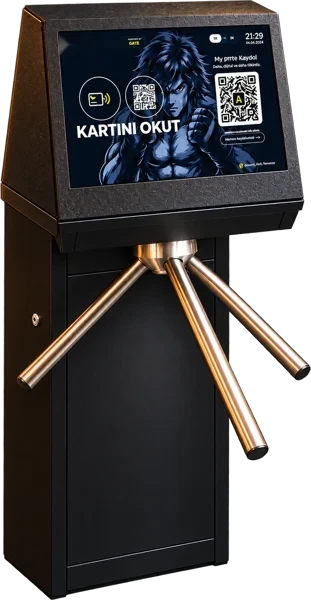
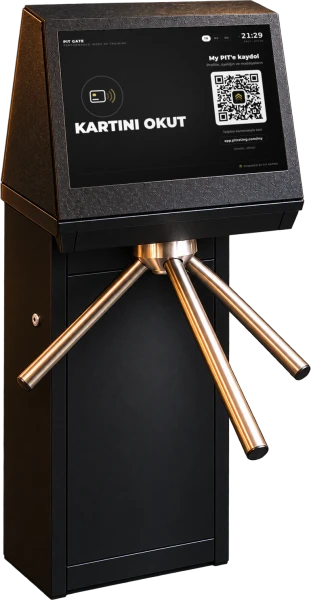
Убраны упоминания зала и его фирменная графика; экран турникета заменён на экран PIT GATE
Claude-Session: https://claude.ai/code/session_01UJAGAc1MHR5NDPDECNkstM

Changed region(s): [[0.1736, 0.03, 0.8971, 0.33], [0.6945, 0.27, 0.7235, 0.3]]

diff --git a/pit-gate/index.html b/pit-gate/index.html
@@ -110,7 +110,7 @@ main{position:relative;z-index:10;text-shadow:0 1px 12px rgba(0,0,0,.7)}
 .blk{min-width:0;display:flex;flex-direction:column;gap:8px;padding-top:14px;border-top:1px solid rgba(201,151,63,.45)}
 .blk h3{margin:0;font:400 14px/1.2 var(--caps);letter-spacing:.3em;text-transform:uppercase;color:var(--amber)}
 .blk p{margin:0}
-.shot{display:block;width:100%;max-width:100%;height:240px;object-fit:cover;object-position:50% 58%;filter:brightness(1.12) contrast(1.03);
+.shot{display:block;width:100%;max-width:100%;height:240px;object-fit:cover;object-position:50% 50%;filter:brightness(1.12) contrast(1.03);
   clip-path:polygon(2% 6%,14% 0,31% 5%,47% 1%,63% 6%,80% 0,98% 4%,100% 28%,96% 52%,100% 77%,97% 97%,79% 100%,61% 95%,42% 100%,24% 95%,7% 100%,0 78%,4% 55%,0 30%)}
 .steps{margin:0;padding:0;list-style:none;display:flex;flex-direction:column;gap:6px;counter-reset:s}
 .steps li{display:grid;grid-template-columns:28px 1fr;gap:8px}
@@ -188,13 +188,13 @@ main{position:relative;z-index:10;text-shadow:0 1px 12px rgba(0,0,0,.7)}
       <div class="credit rv">Adam Hikman Engineering<b>представляет</b></div>
       <h1 class="title rv"><span>PIT</span><span>GATE</span></h1>
       <p class="tag rv">Турникет для зала единоборств, которым управляет CRM</p>
-      <div class="live rv"><i></i>Уже работает в зале единоборств</div>
+      <div class="live rv"><i></i>Обкатан в реальном зале</div>
     </div>
     <div class="hint"><svg viewBox="0 0 24 24" fill="none" stroke-width="2.5" stroke-linecap="round" stroke-linejoin="round" aria-hidden="true"><path d="M6 9l6 6 6-6"/></svg>листай</div>
   </section>
 
   <section class="scr" id="s2" aria-label="Турникет у входа">
-    <div id="wall" class="rv"><img src="/pit-gate/tur_cut3.webp?v=7" alt="Турникет PIT GATE в тёмном зале: экран «Kartını okut» и плата Raspberry Pi"></div>
+    <div id="wall" class="rv"><img src="/pit-gate/tur_cut3.webp?v=7" alt="Турникет PIT GATE с экраном «Kartını okut»"></div>
     <div class="cap2 rv">
       <div class="credit">Вход по карте или QR · выход свободный</div>
       <h2>Приложил карту или QR — прошёл</h2>
@@ -239,7 +239,7 @@ main{position:relative;z-index:10;text-shadow:0 1px 12px rgba(0,0,0,.7)}
         </div>
       </div>
       <div class="where rv">
-        <div class="credit">Работает с 26 октября 2026<b>Действующий зал единоборств</b></div>
+        <div class="credit">Запущен в октябре 2026<b>Турникет · CRM · My PIT</b></div>
         <a class="cta" href="https://demo.pitrating.com/apply" target="_blank" rel="noopener">Подключить зал →</a>
       </div>
       <div class="sign rv"><svg viewBox="0 0 400 400" aria-hidden="true"><use href="#ah"/></svg>Adam Hikman Engineering · PIT RATING</div>

diff --git a/tr/pit-gate/index.html b/tr/pit-gate/index.html
@@ -110,7 +110,7 @@ main{position:relative;z-index:10;text-shadow:0 1px 12px rgba(0,0,0,.7)}
 .blk{min-width:0;display:flex;flex-direction:column;gap:8px;padding-top:14px;border-top:1px solid rgba(201,151,63,.45)}
 .blk h3{margin:0;font:400 14px/1.2 var(--caps);letter-spacing:.3em;text-transform:uppercase;color:var(--amber)}
 .blk p{margin:0}
-.shot{display:block;width:100%;max-width:100%;height:240px;object-fit:cover;object-position:50% 58%;filter:brightness(1.12) contrast(1.03);
+.shot{display:block;width:100%;max-width:100%;height:240px;object-fit:cover;object-position:50% 50%;filter:brightness(1.12) contrast(1.03);
   clip-path:polygon(2% 6%,14% 0,31% 5%,47% 1%,63% 6%,80% 0,98% 4%,100% 28%,96% 52%,100% 77%,97% 97%,79% 100%,61% 95%,42% 100%,24% 95%,7% 100%,0 78%,4% 55%,0 30%)}
 .steps{margin:0;padding:0;list-style:none;display:flex;flex-direction:column;gap:6px;counter-reset:s}
 .steps li{display:grid;grid-template-columns:28px 1fr;gap:8px}
@@ -188,13 +188,13 @@ main{position:relative;z-index:10;text-shadow:0 1px 12px rgba(0,0,0,.7)}
       <div class="credit rv">Adam Hikman Engineering<b>sunar</b></div>
       <h1 class="title rv"><span>PIT</span><span>GATE</span></h1>
       <p class="tag rv">Dövüş sporu salonları için CRM ile yönetilen turnike</p>
-      <div class="live rv"><i></i>Bir dövüş sporu salonunda çalışıyor</div>
+      <div class="live rv"><i></i>Gerçek bir salonda test edildi</div>
     </div>
     <div class="hint"><svg viewBox="0 0 24 24" fill="none" stroke-width="2.5" stroke-linecap="round" stroke-linejoin="round" aria-hidden="true"><path d="M6 9l6 6 6-6"/></svg>kaydır</div>
   </section>
 
   <section class="scr" id="s2" aria-label="Girişteki turnike">
-    <div id="wall" class="rv"><img src="/pit-gate/tur_cut3.webp?v=7" alt="Karanlık salonda PIT GATE turnikesi: “Kartını okut” ekranı ve Raspberry Pi kartı"></div>
+    <div id="wall" class="rv"><img src="/pit-gate/tur_cut3.webp?v=7" alt="“Kartını okut” ekranlı PIT GATE turnikesi"></div>
     <div class="cap2 rv">
       <div class="credit">Kart veya QR ile giriş · serbest çıkış</div>
       <h2>Kartı veya QR’ı okut, geç</h2>
@@ -239,7 +239,7 @@ main{position:relative;z-index:10;text-shadow:0 1px 12px rgba(0,0,0,.7)}
         </div>
       </div>
       <div class="where rv">
-        <div class="credit">26 Ekim 2026’dan beri hizmette<b>Faal bir dövüş sporu salonu</b></div>
+        <div class="credit">Ekim 2026’da devreye alındı<b>Turnike · CRM · My PIT</b></div>
         <a class="cta" href="https://demo.pitrating.com/apply" target="_blank" rel="noopener">Salonunuzu bağlayın →</a>
       </div>
       <div class="sign rv"><svg viewBox="0 0 400 400" aria-hidden="true"><use href="#ah"/></svg>Adam Hikman Engineering · PIT RATING</div>

diff --git a/en/pit-gate/index.html b/en/pit-gate/index.html
@@ -110,7 +110,7 @@ main{position:relative;z-index:10;text-shadow:0 1px 12px rgba(0,0,0,.7)}
 .blk{min-width:0;display:flex;flex-direction:column;gap:8px;padding-top:14px;border-top:1px solid rgba(201,151,63,.45)}
 .blk h3{margin:0;font:400 14px/1.2 var(--caps);letter-spacing:.3em;text-transform:uppercase;color:var(--amber)}
 .blk p{margin:0}
-.shot{display:block;width:100%;max-width:100%;height:240px;object-fit:cover;object-position:50% 58%;filter:brightness(1.12) contrast(1.03);
+.shot{display:block;width:100%;max-width:100%;height:240px;object-fit:cover;object-position:50% 50%;filter:brightness(1.12) contrast(1.03);
   clip-path:polygon(2% 6%,14% 0,31% 5%,47% 1%,63% 6%,80% 0,98% 4%,100% 28%,96% 52%,100% 77%,97% 97%,79% 100%,61% 95%,42% 100%,24% 95%,7% 100%,0 78%,4% 55%,0 30%)}
 .steps{margin:0;padding:0;list-style:none;display:flex;flex-direction:column;gap:6px;counter-reset:s}
 .steps li{display:grid;grid-template-columns:28px 1fr;gap:8px}
@@ -188,13 +188,13 @@ main{position:relative;z-index:10;text-shadow:0 1px 12px rgba(0,0,0,.7)}
       <div class="credit rv">Adam Hikman Engineering<b>presents</b></div>
       <h1 class="title rv"><span>PIT</span><span>GATE</span></h1>
       <p class="tag rv">A turnstile for combat sports gyms, run by the CRM</p>
-      <div class="live rv"><i></i>Already running in a combat sports gym</div>
+      <div class="live rv"><i></i>Proven in a real gym</div>
     </div>
     <div class="hint"><svg viewBox="0 0 24 24" fill="none" stroke-width="2.5" stroke-linecap="round" stroke-linejoin="round" aria-hidden="true"><path d="M6 9l6 6 6-6"/></svg>scroll</div>
   </section>
 
   <section class="scr" id="s2" aria-label="Turnstile at the entrance">
-    <div id="wall" class="rv"><img src="/pit-gate/tur_cut3.webp?v=7" alt="PIT GATE turnstile in a dark gym: the “Kartını okut” screen and a Raspberry Pi board"></div>
+    <div id="wall" class="rv"><img src="/pit-gate/tur_cut3.webp?v=7" alt="PIT GATE turnstile with the “Kartını okut” screen"></div>
     <div class="cap2 rv">
       <div class="credit">Entry by card or QR · free exit</div>
       <h2>Tap a card or QR — you’re in</h2>
@@ -239,7 +239,7 @@ main{position:relative;z-index:10;text-shadow:0 1px 12px rgba(0,0,0,.7)}
         </div>
       </div>
       <div class="where rv">
-        <div class="credit">In service since 26 October 2026<b>A working combat sports gym</b></div>
+        <div class="credit">Launched in October 2026<b>Turnstile · CRM · My PIT</b></div>
         <a class="cta" href="https://demo.pitrating.com/apply" target="_blank" rel="noopener">Connect your gym →</a>
       </div>
       <div class="sign rv"><svg viewBox="0 0 400 400" aria-hidden="true"><use href="#ah"/></svg>Adam Hikman Engineering · PIT RATING</div>

diff --git a/index.html b/index.html
@@ -343,7 +343,7 @@ footer .eyebrow{display:block;margin-bottom:6px}
             <span class="meta">2026 · автор идеи, продукта и архитектуры</span>
             <h3>PIT RATING</h3>
             <p class="sub">Рейтинг бойцов и CRM для залов единоборств</p>
-            <p>Пульс бойцов в реальном времени, индекс PIT по шкале 0–1000 и CRM зала в одной платформе. Готов интерактивный прототип для телефона, ПК и ТВ; облачная CRM уже работает в действующем зале.</p>
+            <p>Пульс бойцов в реальном времени, индекс PIT по шкале 0–1000 и CRM зала в одной платформе. Готов интерактивный прототип для телефона, ПК и ТВ; облачная CRM обкатана в реальном зале.</p>
             <ul class="tags"><li>PIT Arena</li><li>PIT CRM</li><li>My PIT</li><li>Cloudflare Workers</li><li>Three.js</li></ul>
             <div class="acts"><a class="btn solid" href="https://demo.pitrating.com/apply" target="_blank" rel="noopener">Запросить демо</a><a class="btn" href="https://pitrating.com" target="_blank" rel="noopener">pitrating.com</a></div>
           </div>
@@ -373,7 +373,7 @@ footer .eyebrow{display:block;margin-bottom:6px}
         <article class="card" data-c="cs it">
           <a class="ph gate" href="/pit-gate/" aria-label="Открыть лендинг PIT GATE"><img src="/img/gate.webp" alt="Турникет PIT GATE с экраном приветствия" width="311" height="600"><span class="tag">Computing</span></a>
           <div class="body">
-            <span class="meta">Работает с 26 октября 2026 · зал единоборств</span>
+            <span class="meta">Запущен в октябре 2026</span>
             <h3>PIT GATE</h3>
             <p class="sub">Турникет для зала единоборств, которым управляет CRM</p>
             <p>Вход по карте или QR из My PIT в окне расписания, списание занятия и журнал каждого прохода. На экране у входа имя бойца, рейтинг PIT, остаток абонемента и ближайшая тренировка; без интернета пускает по последнему списку.</p>

diff --git a/en/index.html b/en/index.html
@@ -342,7 +342,7 @@ footer .eyebrow{display:block;margin-bottom:6px}
             <span class="meta">2026 · idea, product and architecture</span>
             <h3>PIT RATING</h3>
             <p class="sub">Fighter rating and CRM for combat sports gyms</p>
-            <p>Fighters’ real-time heart rate, the PIT index on a 0–1000 scale and the gym CRM in one platform. An interactive prototype for phone, computer and TV is ready, and the cloud CRM is already running in a working gym.</p>
+            <p>Fighters’ real-time heart rate, the PIT index on a 0–1000 scale and the gym CRM in one platform. An interactive prototype for phone, computer and TV is ready, and the cloud CRM has been proven in a real gym.</p>
             <ul class="tags"><li>PIT Arena</li><li>PIT CRM</li><li>My PIT</li><li>Cloudflare Workers</li><li>Three.js</li></ul>
             <div class="acts"><a class="btn solid" href="https://demo.pitrating.com/apply" target="_blank" rel="noopener">Request a demo</a><a class="btn" href="https://pitrating.com" target="_blank" rel="noopener">pitrating.com</a></div>
           </div>
@@ -372,7 +372,7 @@ footer .eyebrow{display:block;margin-bottom:6px}
         <article class="card" data-c="cs it">
           <a class="ph gate" href="/en/pit-gate/" aria-label="Open the PIT GATE page"><img src="/img/gate.webp" alt="PIT GATE turnstile with a welcome screen" width="311" height="600"><span class="tag">Computing</span></a>
           <div class="body">
-            <span class="meta">In service since 26 October 2026 · combat sports gym</span>
+            <span class="meta">Launched in October 2026</span>
             <h3>PIT GATE</h3>
             <p class="sub">A turnstile for combat sports gyms, run by the CRM</p>
             <p>Entry by card or by a QR code from My PIT within the class window, automatic session deduction and a log of every pass. The entrance screen shows the fighter’s name, PIT rating, remaining membership and next class; without internet it admits by the last synced list.</p>

diff --git a/tr/index.html b/tr/index.html
@@ -342,7 +342,7 @@ footer .eyebrow{display:block;margin-bottom:6px}
             <span class="meta">2026 · fikir, ürün ve mimari</span>
             <h3>PIT RATING</h3>
             <p class="sub">Dövüş sporu salonları için sporcu reytingi ve CRM</p>
-            <p>Sporcuların anlık nabzı, 0–1000 ölçekli PIT endeksi ve salon CRM’i tek platformda. Telefon, bilgisayar ve TV için etkileşimli prototip hazır; bulut CRM faal bir salonda kullanılıyor.</p>
+            <p>Sporcuların anlık nabzı, 0–1000 ölçekli PIT endeksi ve salon CRM’i tek platformda. Telefon, bilgisayar ve TV için etkileşimli prototip hazır; bulut CRM gerçek bir salonda test edildi.</p>
             <ul class="tags"><li>PIT Arena</li><li>PIT CRM</li><li>My PIT</li><li>Cloudflare Workers</li><li>Three.js</li></ul>
             <div class="acts"><a class="btn solid" href="https://demo.pitrating.com/apply" target="_blank" rel="noopener">Demo talep et</a><a class="btn" href="https://pitrating.com" target="_blank" rel="noopener">pitrating.com</a></div>
           </div>
@@ -372,7 +372,7 @@ footer .eyebrow{display:block;margin-bottom:6px}
         <article class="card" data-c="cs it">
           <a class="ph gate" href="/tr/pit-gate/" aria-label="PIT GATE sayfasını aç"><img src="/img/gate.webp" alt="Karşılama ekranlı PIT GATE turnikesi" width="311" height="600"><span class="tag">Computing</span></a>
           <div class="body">
-            <span class="meta">26 Ekim 2026’dan beri hizmette · dövüş sporu salonu</span>
+            <span class="meta">Ekim 2026’da devreye alındı</span>
             <h3>PIT GATE</h3>
             <p class="sub">Dövüş sporu salonları için CRM ile yönetilen turnike</p>
             <p>Ders saatine göre kart veya My PIT’teki QR kod ile giriş, ders düşümü ve her geçişin kaydı. Giriş ekranında sporcunun adı, PIT reytingi, kalan üyeliği ve sıradaki antrenmanı görünür; internet yokken son senkronize listeye göre geçiş verir.</p>
